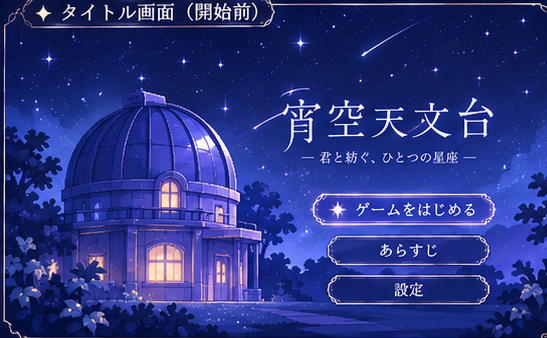
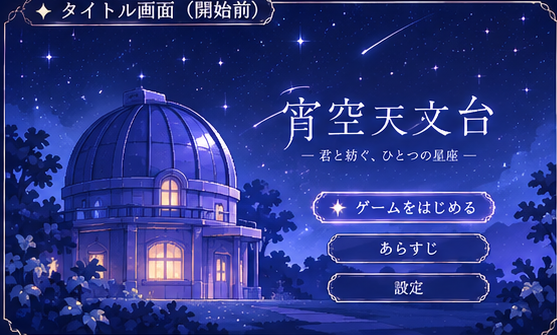
Add files via upload

diff --git a/index.html b/index.html
@@ -16,36 +16,51 @@ body{background:radial-gradient(ellipse at 45% -20%,#6965a2 0,#23234f 42%,#10142
 .lens{background:#4d558d;border-color:#8d84bd}.lens img{width:230%;top:-166%;left:-47%}
 .dialog{border-color:#d9c39c}.dialog p{white-space:pre-line}
 @media(max-width:520px){.mapwrap{aspect-ratio:3/2}.panel{max-height:95dvh}.sky{min-height:270px}.head h1{font-size:19px}}
+
+/* V4: unified pixel-art characters and observatory */
+.portrait{background:#232550}.portrait img{width:100%;height:100%;object-fit:cover;object-position:center;top:0}
+.lens{background:#25264f}.lens img{width:100%;height:100%;left:0;top:0;object-fit:cover;image-rendering:pixelated}
+.mapwrap canvas,.staffscene img,.portrait img{image-rendering:pixelated}
+.mapwrap{aspect-ratio:1117/530}.spot{font-size:27px;color:#fff6c2;text-shadow:0 0 8px #fff,0 0 17px #ffe28d;animation:twinkle 1.3s ease-in-out infinite alternate}
+@keyframes twinkle{from{opacity:.5;transform:scale(.86)}to{opacity:1;transform:scale(1.15)}}
+@media(max-width:520px){.mapwrap{aspect-ratio:1.45}}
 </style><style>
 .title-screen,.ending-screen{position:fixed;inset:0;z-index:100;background:#0c1231;display:grid;place-items:center;text-align:center;overflow:hidden}.title-screen[hidden],.ending-screen[hidden]{display:none}.title-bg{position:absolute;inset:0;background:linear-gradient(#080e2888,#0b1030b8),url('title_art.png') center/cover;filter:saturate(1.2)}.title-content{position:relative;padding:24px;width:min(92%,620px);text-shadow:0 3px 10px #070b24}.title-content h1{font-size:clamp(34px,8vw,66px);font-weight:500;letter-spacing:.14em;margin:18px 0;color:#fff0d2}.title-content p{color:#ded5ff}.tiny{font-size:12px;letter-spacing:.15em;color:#f0d8a6}.title-content .btn{margin-top:24px;font-size:17px;padding:13px 30px}.title-constellation{width:150px;height:100px;margin:auto;opacity:0;transition:opacity .7s}.title-screen.cleared .title-constellation{opacity:1}.title-constellation svg{width:100%;height:100%;filter:drop-shadow(0 0 8px #fff)}.ending-screen{background:radial-gradient(ellipse at center,#414a9c,#101635 70%)}.ending-screen:before{content:'✧　　✦　　　✧　✦　　✧';position:absolute;top:10%;color:#f6e8c8;letter-spacing:30px;font-size:25px}.ending-inner{padding:30px;max-width:650px}.ending-inner h2{font-size:clamp(24px,5vw,42px);line-height:1.7;font-weight:400;color:#fff1cb}.ending-inner p{line-height:2;color:#d5d6ff}.ending-stars{font-size:55px;color:#fff5d4;text-shadow:0 0 25px #fff}.ending-screen.last{background:radial-gradient(ellipse at center,#6b70b3,#171a43 70%)}.staffscene{position:relative;width:100%;background:#161b41}.staffscene img{width:100%;display:block;image-rendering:pixelated}.spot{position:absolute;transform:translate(-50%,-50%);border:0;background:transparent;color:#fff3ba;font-size:32px;text-shadow:0 0 12px white;animation:glow 1.5s infinite alternate}.ctrl button{touch-action:none;user-select:none}.head{flex-wrap:wrap}.head .chip{font-size:12px}
-</style></head><body><div id="app"><header class="head"><div><small>THE YOIZORA OBSERVATORY</small><h1>✦ 宵空天文台 ✦</h1></div><button id="home" class="chip">タイトル</button><button id="sound" class="chip">♪ OFF</button><button id="reset" class="chip">はじめから</button></header><div class="frame"><div class="mapwrap" id="map"><canvas id="canvas" width="640" height="400" aria-label="天文台のドット絵マップ"></canvas></div><div class="hud"><div class="stars" id="stars">☆☆☆☆☆☆</div><div class="actions"><button class="btn" id="interact">しらべる</button><button class="btn" id="bag">もちもの</button><button class="btn" id="dev">DEV 🌠</button></div></div></div><div class="ctrl"><button class="empty">.</button><button data-move="up">▲</button><button class="empty">.</button><button data-move="left">◀</button><button data-move="down">▼</button><button data-move="right">▶</button></div><div class="dialog"><div class="portrait"><img src="sera_reference.jpg" alt="宵空セラ"><span class="shine" id="portraitStar">✦</span></div><div><strong id="speaker">セラ</strong><p id="line">こんせら〜！ ようこそ、宵空天文台へ！ 星を集めて、ひとつの星座をつくろうね！</p></div></div><p class="hint">天文台のものをタップして調べよう。星は見つけたら自分で拾ってね。窓からはいつでも星座を作れるよ。</p></div><section id="titleScreen" class="title-screen" hidden><div class="title-bg"></div><div class="title-content"><div class="tiny">THE YOIZORA OBSERVATORY</div><h1>宵空天文台</h1><p id="titleStatus">君と紡ぐ、ひとつの星座</p><div class="title-constellation" aria-hidden="true"><svg viewBox="0 0 100 100"><polyline points="22,72 39,40 62,26 80,50 70,77 44,80" fill="none" stroke="#ffe7a8" stroke-width="1.5"/></svg></div><button class="btn" id="titleStart">ゲームをはじめる</button><p class="tiny">星を集めて、夜空に並べよう</p></div></section><section id="endingScreen" class="ending-screen" hidden><div class="ending-inner"><div class="ending-stars">✦　✧　✦</div><h2></h2><p></p><button class="btn" id="endNext">つづき ▶</button></div></section><div class="overlay" id="overlay" hidden><div class="panel" id="panel"></div></div><script>
+
+/* V4: unified pixel-art characters and observatory */
+.portrait{background:#232550}.portrait img{width:100%;height:100%;object-fit:cover;object-position:center;top:0}
+.lens{background:#25264f}.lens img{width:100%;height:100%;left:0;top:0;object-fit:cover;image-rendering:pixelated}
+.mapwrap canvas,.staffscene img,.portrait img{image-rendering:pixelated}
+.mapwrap{aspect-ratio:1117/530}.spot{font-size:27px;color:#fff6c2;text-shadow:0 0 8px #fff,0 0 17px #ffe28d;animation:twinkle 1.3s ease-in-out infinite alternate}
+@keyframes twinkle{from{opacity:.5;transform:scale(.86)}to{opacity:1;transform:scale(1.15)}}
+@media(max-width:520px){.mapwrap{aspect-ratio:1.45}}
+</style></head><body><div id="app"><header class="head"><div><small>THE YOIZORA OBSERVATORY</small><h1>✦ 宵空天文台 ✦</h1></div><button id="home" class="chip">タイトル</button><button id="sound" class="chip">♪ OFF</button><button id="reset" class="chip">はじめから</button></header><div class="frame"><div class="mapwrap" id="map"><canvas id="canvas" width="640" height="400" aria-label="天文台のドット絵マップ"></canvas></div><div class="hud"><div class="stars" id="stars">☆☆☆☆☆☆</div><div class="actions"><button class="btn" id="interact">しらべる</button><button class="btn" id="bag">もちもの</button><button class="btn" id="dev">DEV 🌠</button></div></div></div><div class="ctrl"><button class="empty">.</button><button data-move="up">▲</button><button class="empty">.</button><button data-move="left">◀</button><button data-move="down">▼</button><button data-move="right">▶</button></div><div class="dialog"><div class="portrait"><img id="portraitArt" src="sera_portrait.png" alt="宵空セラ"><span class="shine" id="portraitStar" hidden>✦</span></div><div><strong id="speaker">セラ</strong><p id="line">こんせら〜！ ようこそ、宵空天文台へ！ 星を集めて、ひとつの星座をつくろうね！</p></div></div><p class="hint">天文台のものをタップして調べよう。星は見つけたら自分で拾ってね。窓からはいつでも星座を作れるよ。</p></div><section id="titleScreen" class="title-screen" hidden><div class="title-bg"></div><div class="title-content"><div class="tiny">THE YOIZORA OBSERVATORY</div><h1>宵空天文台</h1><p id="titleStatus">君と紡ぐ、ひとつの星座</p><div class="title-constellation" aria-hidden="true"><svg viewBox="0 0 100 100"><polyline points="22,72 39,40 62,26 80,50 70,77 44,80" fill="none" stroke="#ffe7a8" stroke-width="1.5"/></svg></div><button class="btn" id="titleStart">ゲームをはじめる</button><p class="tiny">星を集めて、夜空に並べよう</p></div></section><section id="endingScreen" class="ending-screen" hidden><div class="ending-inner"><div class="ending-stars">✦　✧　✦</div><h2></h2><p></p><button class="btn" id="endNext">つづき ▶</button></div></section><div class="overlay" id="overlay" hidden><div class="panel" id="panel"></div></div><script>
 const $=id=>document.getElementById(id),canvas=$('canvas'),ctx=canvas.getContext('2d'),overlay=$('overlay'),panel=$('panel');
-const items=[{id:'books',name:'本棚',x:68,y:65,w:65,h:60},{id:'clock',name:'時計',x:283,y:40,w:55,h:50},{id:'chart',name:'星図',x:240,y:150,w:60,h:55},{id:'device',name:'天球儀',x:440,y:155,w:55,h:55},{id:'notes',name:'観測ノート',x:350,y:235,w:60,h:55},{id:'window',name:'窓',x:505,y:53,w:62,h:55},{id:'telescope',name:'望遠鏡',x:520,y:208,w:60,h:55},{id:'tv',name:'テレビ',x:65,y:240,w:60,h:55},{id:'staff',name:'スタッフ室',x:266,y:318,w:62,h:50},{id:'sera',name:'セラ',x:505,y:275,w:85,h:48}];
+const items=[{id:'books',name:'本棚',x:68,y:65,w:65,h:60},{id:'clock',name:'時計',x:283,y:40,w:55,h:50},{id:'chart',name:'星図',x:240,y:150,w:60,h:55},{id:'device',name:'天球儀',x:440,y:155,w:55,h:55},{id:'notes',name:'観測ノート',x:350,y:235,w:60,h:55},{id:'window',name:'窓',x:505,y:53,w:62,h:55},{id:'telescope',name:'望遠鏡',x:520,y:208,w:60,h:55},{id:'tv',name:'テレビ',x:65,y:240,w:60,h:55},{id:'staff',name:'スタッフ室',x:560,y:190,w:70,h:90},{id:'sera',name:'セラ',x:505,y:275,w:85,h:48}];
 let s={done:{},stars:0,eye:false,placed:[],remote:false,channel:0,news:false,meteor:false,meteorTaken:false,restored:false,staff:false,pos:{x:185,y:310},bookOrder:[],bookPick:-1,pending:null};
 try{const v=JSON.parse(localStorage.getItem('sera-observatory-2026-v2'));if(v&&v.done)s={...s,...v}}catch(e){}
 const save=()=>localStorage.setItem('sera-observatory-2026-v2',JSON.stringify(s));
 function say(t,who='セラ'){ $('speaker').textContent=who;$('line').textContent=t; }
-function refresh(){let n=s.stars+(s.eye?1:0);$('stars').textContent='★'.repeat(n)+'☆'.repeat(6-n);$('portraitStar').hidden=s.eye&&!s.restored;draw();save()}
+function refresh(){let n=s.stars+(s.eye?1:0);$('stars').textContent='★'.repeat(n)+'☆'.repeat(6-n);$('portraitStar').hidden=true;$('portraitArt').src=(s.eye&&!s.restored)?'sera_sleep.png':'sera_portrait.png';draw();save()}
 function pixelRect(x,y,w,h,c){ctx.fillStyle=c;ctx.fillRect(x,y,w,h)}
-const mapArt=new Image();mapArt.src='map.png';mapArt.onload=()=>draw();
+const mapArt=new Image();mapArt.src='map.png';mapArt.onload=()=>draw();const seraSprite=new Image();seraSprite.src='sera_sprite.png';seraSprite.onload=()=>draw();const playerSprite=new Image();playerSprite.src='player_sprite.png';playerSprite.onload=()=>draw();
 function draw(){ctx.imageSmoothingEnabled=false;ctx.fillStyle='#20254d';ctx.fillRect(0,0,640,400);
 if(mapArt.complete&&mapArt.naturalWidth)ctx.drawImage(mapArt,0,0,640,400);
 // Clear, game-like interactive markers; art is decorative and objects are tappable.
-const marks=[['books',100,92],['clock',310,64],['chart',265,173],['device',464,178],['notes',375,258],['window',535,78],['telescope',550,235],['tv',95,266],['staff',296,342]];
+const marks=[['books',100,92],['clock',310,64],['chart',265,173],['device',464,178],['notes',375,258],['window',535,78],['telescope',550,235],['tv',95,266],['staff',590,230]];
 const pulse=0.75+0.25*Math.sin(Date.now()/370);
 for(const [id,x,y] of marks){if(id==='staff'&&s.eye){ctx.fillStyle='#fff0b9';ctx.fillRect(x-3,y-4,6,9)}ctx.save();ctx.translate(x,y);ctx.globalAlpha=pulse;ctx.shadowBlur=12;ctx.shadowColor='#ffe9a2';ctx.fillStyle='#fff4ca';ctx.beginPath();ctx.moveTo(0,-12);ctx.lineTo(4,-4);ctx.lineTo(12,0);ctx.lineTo(4,4);ctx.lineTo(0,12);ctx.lineTo(-4,4);ctx.lineTo(-12,0);ctx.lineTo(-4,-4);ctx.closePath();ctx.fill();ctx.restore()}
 // Sera is a distinct lavender-haired guide. After five stars she walks to the telescope.
 let sx=s.stars>=5?525:430, sy=s.stars>=5?212:285;
 if(typeof seraWalkStart!=='undefined'&&seraWalkStart&&s.stars>=5){let t=Math.min(1,(Date.now()-seraWalkStart)/2300);sx=430+95*t;sy=285-73*t;if(t===1)seraWalkStart=0;}
-ctx.save();ctx.translate(sx,sy);ctx.fillStyle='#262450';ctx.fillRect(-13,-18,26,12);ctx.fillStyle='#f6d89e';ctx.fillRect(-10,-21,20,3);ctx.fillStyle='#c6c2ff';ctx.fillRect(-13,-6,26,23);ctx.fillStyle='#eee9ff';ctx.fillRect(-15,4,30,11);ctx.fillStyle='#b4baff';ctx.fillRect(-11,-15,22,15);ctx.fillStyle='#f5e6eb';ctx.fillRect(-7,-9,14,12);ctx.fillStyle='#9b99e2';ctx.fillRect(-12,15,8,8);ctx.fillRect(4,15,8,8);ctx.fillStyle='#fff';ctx.fillRect(-18,-13,7,6);ctx.fillRect(11,-13,7,6);ctx.restore();
-// Visitor: dark navy + teal, deliberately unlike Sera.
-let p=s.pos;ctx.fillStyle='#111b36';ctx.fillRect(p.x-13,p.y-17,26,15);ctx.fillStyle='#3c9eab';ctx.fillRect(p.x-10,p.y-11,20,16);ctx.fillStyle='#f2d5c5';ctx.fillRect(p.x-8,p.y-8,16,12);ctx.fillStyle='#173c58';ctx.fillRect(p.x-12,p.y+4,24,20);ctx.fillStyle='#7ac9c4';ctx.fillRect(p.x-10,p.y+8,20,3);ctx.fillStyle='#121d36';ctx.fillRect(p.x-9,p.y+23,7,8);ctx.fillRect(p.x+3,p.y+23,7,8);
+if(seraSprite.complete&&seraSprite.naturalWidth){ctx.drawImage(seraSprite,sx-23,sy-36,46,52)}
+let p=s.pos;if(playerSprite.complete&&playerSprite.naturalWidth){ctx.drawImage(playerSprite,p.x-19,p.y-32,38,48)}
 if(s.eye&&!s.restored){ctx.fillStyle='#10132955';ctx.fillRect(0,0,640,400)}
 }
 function show(html){panel.innerHTML=html;overlay.hidden=false;panel.querySelectorAll('[data-close]').forEach(b=>b.onclick=close)}function close(){overlay.hidden=true;refresh()}function shell(title,body){show(`<button class="btn close" data-close>×</button><h2>${title}</h2>${body}`)}
 function reward(id){if(s.done[id])return;s.pending=id;save();say('わあ！ 星が現れたよ。拾ってみて！');shell('✦ 星が現れた',`<p>白く輝く星が、目の前に浮かんでいる。</p><button class="pickup" id="pickup" aria-label="星を拾う">✦</button><p class="mini">星をタップして拾おう。</p>`);$('pickup').onclick=()=>{if(!s.pending)return;let id=s.pending;s.pending=null;s.done[id]=true;s.stars++;refresh();if(s.stars===5)say('5つ集まったね！ ちょっと望遠鏡を覗いてみるね。');else say('やった！ またひとつ見つけたね！');shell('✦ 星を拾った！',`<p>星が保管箱に収まった。いまは <strong>${s.stars}/5</strong> 個。</p><p>窓から夜空を見れば、いつでも星を並べられる。</p><button class="btn" data-close>部屋に戻る</button>`)};}
-const bookTexts=['朝の光が差し込み、観測が始まった。','太陽が高く昇り、機材を点検した。','夕日が沈み、空が茜色に染まった。','夜の帳が下り、最初の星が現れた。','真夜中、空いっぱいに星が輝いた。','夜が明け、観測を終えた。'];let order=[3,1,5,0,4,2];
-function books(){if(s.done.books){shell('📚 本棚','<p>並べた本はそのままになっている。背表紙には、細い金色の模様がつながっている。</p><div class="paper">✦　　✦<br>　　✦　　✦<br>✦　　　　✦</div><p class="mini">この模様は、どこかで役に立つかもしれない。</p>');return}let list=order.map((v,i)=>`<button class="book" data-b="${i}">${bookTexts[v]}</button>`).join('');shell('📚 本棚 — 物語を並べる',`<p>6冊の観測日誌がバラバラになっている。中身を読んで、出来事の順に並べよう。<br><span class="mini">2冊を順番にタップすると、場所を交換できるよ。</span></p><div class="booklist" id="booklist">${list}</div><p id="bookmsg" class="mini">本の中身を読んでみよう。</p><div class="row"><button class="btn" id="bookcheck">この順番で決定</button></div>`);panel.querySelectorAll('[data-b]').forEach(b=>b.onclick=()=>{let i=+b.dataset.b;if(s.bookPick<0){s.bookPick=i;b.classList.add('selected')}else{[order[i],order[s.bookPick]]=[order[s.bookPick],order[i]];s.bookPick=-1;books()}});$('bookcheck').onclick=()=>{if(order.every((v,i)=>v===i)){reward('books')}else $('bookmsg').textContent='まだ物語の順番が違うみたい。'} }
+const bookTexts=['朝の光が差し込み、観測が始まった。','太陽が高く昇り、機材を点検した。','夕日が沈み、空が茜色に染まった。','夜の帳が下り、最初の星が現れた。','真夜中、空いっぱいに星が輝いた。','夜が明け、観測を終えた。'];let order=s.bookOrder?.length===6?s.bookOrder:[3,1,5,0,4,2];
+function books(){if(s.done.books){shell('📚 本棚','<p>並べた本はそのままになっている。背表紙には、細い金色の模様がつながっている。</p><div class="paper">✦　　✦<br>　　✦　　✦<br>✦　　　　✦</div><p class="mini">この模様は、どこかで役に立つかもしれない。</p>');return}let list=order.map((v,i)=>`<button class="book" data-b="${i}">${bookTexts[v]}</button>`).join('');shell('📚 本棚 — 物語を並べる',`<p>6冊の観測日誌がバラバラになっている。中身を読んで、出来事の順に並べよう。<br><span class="mini">2冊を順番にタップすると、場所を交換できるよ。</span></p><div class="booklist" id="booklist">${list}</div><p id="bookmsg" class="mini">本の中身を読んでみよう。</p><div class="row"><button class="btn" id="bookcheck">この順番で決定</button></div>`);panel.querySelectorAll('[data-b]').forEach(b=>b.onclick=()=>{let i=+b.dataset.b;if(s.bookPick<0){s.bookPick=i;b.classList.add('selected')}else{[order[i],order[s.bookPick]]=[order[s.bookPick],order[i]];s.bookOrder=[...order];save();s.bookPick=-1;books()}});$('bookcheck').onclick=()=>{if(order.every((v,i)=>v===i)){reward('books')}else $('bookmsg').textContent='まだ物語の順番が違うみたい。'} }
 function clock(){if(s.done.clock)return shell('🕰 時計','<p>時計は正しい時刻を指している。</p>');shell('🕰 時計 — 失われた時刻',`<div class="paper">観測メモ：月が半分から満月になるまで、あと2時間。<br>月が満ちるのは午後10時。<br>観測開始の時刻に針を合わせよ。</div><p>時計を何時に合わせる？</p><div class="row">${[6,8,10,12].map(n=>`<button class="btn" data-hour="${n}">${n}時</button>`).join('')}</div><p id="clockmsg" class="mini"></p>`);panel.querySelectorAll('[data-hour]').forEach(b=>b.onclick=()=>{if(+b.dataset.hour===8){reward('clock')}else $('clockmsg').textContent='観測メモをもう一度読もう。'})}
 function chart(){if(s.done.chart)return shell('🗺 星図','<p>2枚の星図は重なって、ひとつの星を示している。</p>');shell('🗺 星図 — 重なった先の星',`<div class="paper">星図A：上段の左と中央、下段の右に印。<br>星図B：上段の中央と右、下段の左に印。<br><br>両方の星図に印がある場所は？</div><div class="row">${['上段左','上段中央','上段右','下段左','下段右'].map((x,i)=>`<button class="btn" data-choice="${i}">${x}</button>`).join('')}</div><p id="chartmsg" class="mini"></p>`);panel.querySelectorAll('[data-choice]').forEach(b=>b.onclick=()=>{if(+b.dataset.choice===1){reward('chart')}else $('chartmsg').textContent='両方に共通する場所を探そう。'})}
 function device(){if(s.done.device)return shell('⚙ 天球儀','<p>天球儀は静かに回っている。</p>');shell('⚙ 天球儀 — 観測装置の調整',`<div class="paper">観測装置の設定：<br>「太陽が沈み、月が昇り、星が輝く」<br>この順番でスイッチを押す。</div><div class="row">${[['☀','sun'],['☾','moon'],['✦','star']].map(([a,b])=>`<button class="btn" data-switch="${b}">${a}</button>`).join('')}</div><p id="devmsg" class="mini">入力：なし</p>`);let seq=[];panel.querySelectorAll('[data-switch]').forEach(b=>b.onclick=()=>{seq.push(b.dataset.switch);$('devmsg').textContent='入力：'+seq.join(' → ');if(seq.length===3){if(seq.join(',')==='sun,moon,star'){reward('device')}else{seq=[];$('devmsg').textContent='順番が違うみたい。もう一度！'}}})}
@@ -58,14 +73,14 @@ const place=i=>{if(s.placed.includes(i)){s.placed=s.placed.filter(x=>x!==i)}else
 panel.querySelectorAll('[data-node]').forEach(b=>b.onclick=()=>place(+b.dataset.node));
 panel.querySelectorAll('[data-tray]').forEach(b=>{b.onclick=()=>{selected=true;b.style.background='#8172b4'};b.addEventListener('pointerdown',e=>{b.dataset.drag='1';b.setPointerCapture(e.pointerId)});b.addEventListener('pointerup',e=>{if(!b.dataset.drag)return;let skyEl=$('sky'),r=skyEl.getBoundingClientRect();if(e.clientX>=r.left&&e.clientX<=r.right&&e.clientY>=r.top&&e.clientY<=r.bottom){let x=(e.clientX-r.left)/r.width*100,y=(e.clientY-r.top)/r.height*100;let candidates=nodes.map((p,i)=>({i,d:Math.hypot(p[0]-x,p[1]-y)})).filter(v=>!s.placed.includes(v.i)).sort((a,b)=>a.d-b.d);if(candidates.length)place(candidates[0].i)}})});
 $('skyreset').onclick=()=>{s.placed=[];sky()};}
-function telescope(){if(s.stars<5&&!s.eye)return say('セラはまだ観測の準備をしているみたい。星を集めよう！');if(s.restored)return shell('🔭 望遠鏡','<p>セラが笑っている。瞳には白い星が輝いている。</p>');let empty=s.eye;let img=`<div class="lens ${empty?'empty':''}"><img src="sera_reference.jpg" alt="望遠鏡越しに見えるセラの瞳">${empty?'':`<button class="eye-star" id="eyeTake" aria-label="瞳の白い星を取る">★</button>`}</div>`;shell('🔭 望遠鏡',`${img}<p class="mini">${empty?'セラは望遠鏡を覗いたまま、動かない。': '望遠鏡を覗くセラの瞳に、白い星が浮かんでいる。'}</p>${empty&&s.meteorTaken?'<div class="row"><button class="btn" id="restore">流れ星の星を瞳に戻す</button></div>':''}`);if(!empty){let btn=$('eyeTake');btn.onclick=takeEye;btn.addEventListener('pointerdown',e=>{btn.setPointerCapture(e.pointerId);btn.dataset.startY=e.clientY});btn.addEventListener('pointerup',e=>{if(Math.abs(e.clientY-(+btn.dataset.startY))>15)takeEye()})}if(empty&&s.meteorTaken)$('restore').onclick=restore}
-function takeEye(){if(s.eye)return;s.eye=true;say('…………');refresh();shell('🔭 望遠鏡',`<div class="lens empty"><img src="sera_reference.jpg" alt="光を失った瞳"></div><p>…………</p><button class="btn" data-close>戻る</button>`)}
+function telescope(){if(s.stars<5&&!s.eye)return say('セラはまだ観測の準備をしているみたい。星を集めよう！');if(s.restored)return shell('🔭 望遠鏡','<p>セラが笑っている。瞳には白い星が輝いている。</p>');let empty=s.eye;let img=`<div class="lens ${empty?'empty':''}"><img src="${empty?'eye_empty.png':'eye_lit.png'}" alt="望遠鏡越しに見えるセラの瞳">${empty?'':`<button class="eye-star" id="eyeTake" aria-label="瞳の白い星を取る">★</button>`}</div>`;shell('🔭 望遠鏡',`${img}<p class="mini">${empty?'セラは望遠鏡を覗いたまま、動かない。': '望遠鏡を覗くセラの瞳に、白い星が浮かんでいる。'}</p>${empty&&s.meteorTaken?'<div class="row"><button class="btn" id="restore">流れ星の星を瞳に戻す</button></div>':''}`);if(!empty){let btn=$('eyeTake');btn.onclick=takeEye;btn.addEventListener('pointerdown',e=>{btn.setPointerCapture(e.pointerId);btn.dataset.startY=e.clientY});btn.addEventListener('pointerup',e=>{if(Math.abs(e.clientY-(+btn.dataset.startY))>15)takeEye()})}if(empty&&s.meteorTaken)$('restore').onclick=restore}
+function takeEye(){if(s.eye)return;s.eye=true;say('…………');refresh();shell('🔭 望遠鏡',`<div class="lens empty"><img src="eye_empty.png" alt="光を失った瞳"></div><p>…………</p><button class="btn" data-close>戻る</button>`)}
 function restore(){s.restored=true;s.meteor=false;s.meteorTaken=false;refresh();say('……あれ？　星座、できたんだね。\n君と一緒に星座を見たかったんだ。');shell('✦ ふたりの星座',`<p>白い星が瞳に戻ると、セラはゆっくり顔を上げた。</p><p>「……あれ？　星座、できたんだね。」</p><p><strong>「君と一緒に星座を見たかったんだ。」</strong></p><p>窓の外には、ふたりで作った星座が輝いている。</p><div class="row"><button class="btn" id="ending">エンディングを見る ♪</button></div>`);$('ending').onclick=()=>startEnding()}
 function staff(){if(!s.eye)return say('そこはスタッフ専用だよ〜。お客さんはこっち！');s.staff=true;say('…………');
 shell('スタッフ室',`<div class="staffscene" id="staffscene"><img src="staff_art.png" alt="スタッフ室のドット絵"><button class="spot" style="left:17%;top:44%" data-staff="shelf">✧</button><button class="spot" style="left:52%;top:53%" data-staff="desk">✧</button><button class="spot" style="left:85%;top:40%" data-staff="cabinet">✧</button></div><p id="staffmsg">静かなスタッフ室。机と本棚、戸棚を調べられそう。</p><div class="row"><button class="btn" data-close>天文台へ戻る</button></div>`);
 panel.querySelectorAll('[data-staff]').forEach(b=>b.onclick=()=>{let id=b.dataset.staff;if(id==='shelf')$('staffmsg').textContent='観測記録：「星は、空にあるものだけではない」。セラの瞳を思い出した。';if(id==='desk')$('staffmsg').textContent='セラのメモ。「星座が完成したら、あの子と一緒に見よう。楽しみだな」。';if(id==='cabinet'){s.remote=true;save();$('staffmsg').textContent='戸棚の中からリモコンを見つけた。これでテレビを操作できそう。';b.textContent='✓'}})}
 function tv(){if(!s.remote)return shell('📺 テレビ','<div class="news"><h3>バラエティ番組</h3><p>今夜のおすすめスイーツ特集！</p></div><p>リモコンが見当たらない。チャンネルは変えられない。</p>');let channels=[['バラエティ番組','今夜のおすすめスイーツ特集！'],['天気予報','今夜は雲が少なく、星空が広がるでしょう。'],['ニュース速報','今夜、流星群が見頃を迎えます。ピークは午前0時ごろ。'],['通販番組','星形のクッション、好評発売中！']];let c=channels[s.channel];shell('📺 テレビ',`<div class="news"><h3>${c[0]}</h3><p>${c[1]}</p></div><div class="row"><button class="btn" id="prev">◀ CH</button><button class="btn" id="next">CH ▶</button></div>`);if(s.channel===2){s.news=true;save()}$('prev').onclick=()=>{s.channel=(s.channel+3)%4;tv()};$('next').onclick=()=>{s.channel=(s.channel+1)%4;tv()}}
-function windowLook(){if(s.meteor&&s.eye&&!s.restored){shell('🌠 流れ星',`<div class="sky" style="height:190px;text-align:center;padding-top:40px;font-size:65px;color:#fff8bd;text-shadow:0 0 30px white">☄</div><p>流れ星が夜空を横切った。その光の中に、白い星が見える。</p><div class="row"><button class="btn" id="getMeteor">白い星を取る</button></div>`);$('getMeteor').onclick=()=>{s.meteorTaken=true;s.meteor=false;say('…………');shell('✦ 流れ星の星を手に入れた','<p>白い星が手元に残った。……どこかに戻せるだろうか。</p>');save()};return}sky()}
+function windowLook(){if(s.eye&&s.news&&!s.meteorTaken&&!s.restored&&new Date().getHours()===0&&new Date().getMinutes()<5){s.meteor=true;save()}if(s.meteor&&s.eye&&!s.restored){shell('🌠 流れ星',`<div class="sky" style="height:190px;text-align:center;padding-top:40px;font-size:65px;color:#fff8bd;text-shadow:0 0 30px white">☄</div><p>流れ星が夜空を横切った。その光の中に、白い星が見える。</p><div class="row"><button class="btn" id="getMeteor">白い星を取る</button></div>`);$('getMeteor').onclick=()=>{s.meteorTaken=true;s.meteor=false;say('…………');shell('✦ 流れ星の星を手に入れた','<p>白い星が手元に残った。……どこかに戻せるだろうか。</p>');save()};return}sky()}
 function bag(){shell('🎒 もちもの',`<p>集めた星：${s.stars} 個<br>瞳から取った星：${s.eye?'1 個':'なし'}<br>テレビのリモコン：${s.remote?'あり':'なし'}<br>流れ星のニュース：${s.news?'見た':'まだ'}<br>流れ星の星：${s.meteorTaken?'あり':'なし'}</p>`)}
 function inspect(id){if(id==='sera'){if(s.eye&&!s.restored)return say('…………');return say('星が集まったら、窓から夜空を見てみよう！')}if(id==='books')return books();if(id==='clock')return clock();if(id==='chart')return chart();if(id==='device')return device();if(id==='notes')return notes();if(id==='window')return windowLook();if(id==='telescope')return telescope();if(id==='staff')return staff();if(id==='tv')return tv()}
 function near(){let p=s.pos;let sorted=items.map(it=>({it,d:Math.hypot(p.x-(it.x+it.w/2),p.y-(it.y+it.h/2))})).sort((a,b)=>a.d-b.d);return sorted[0].it.id}
